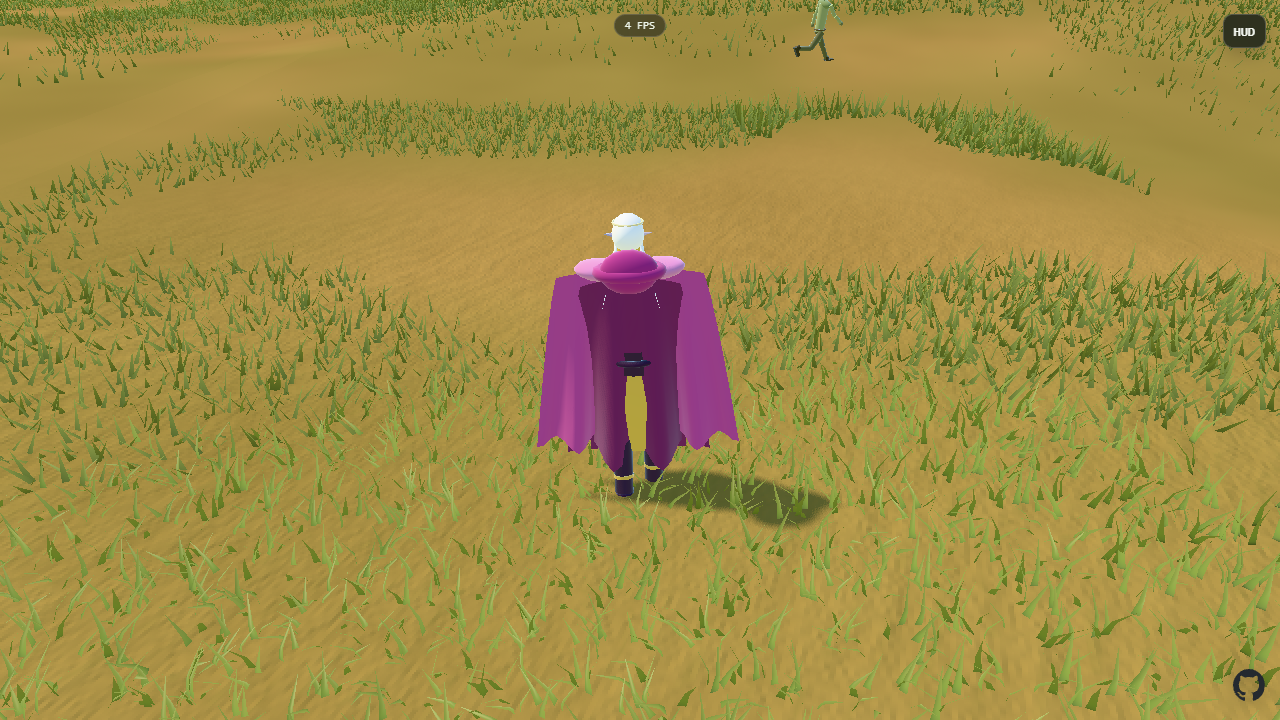
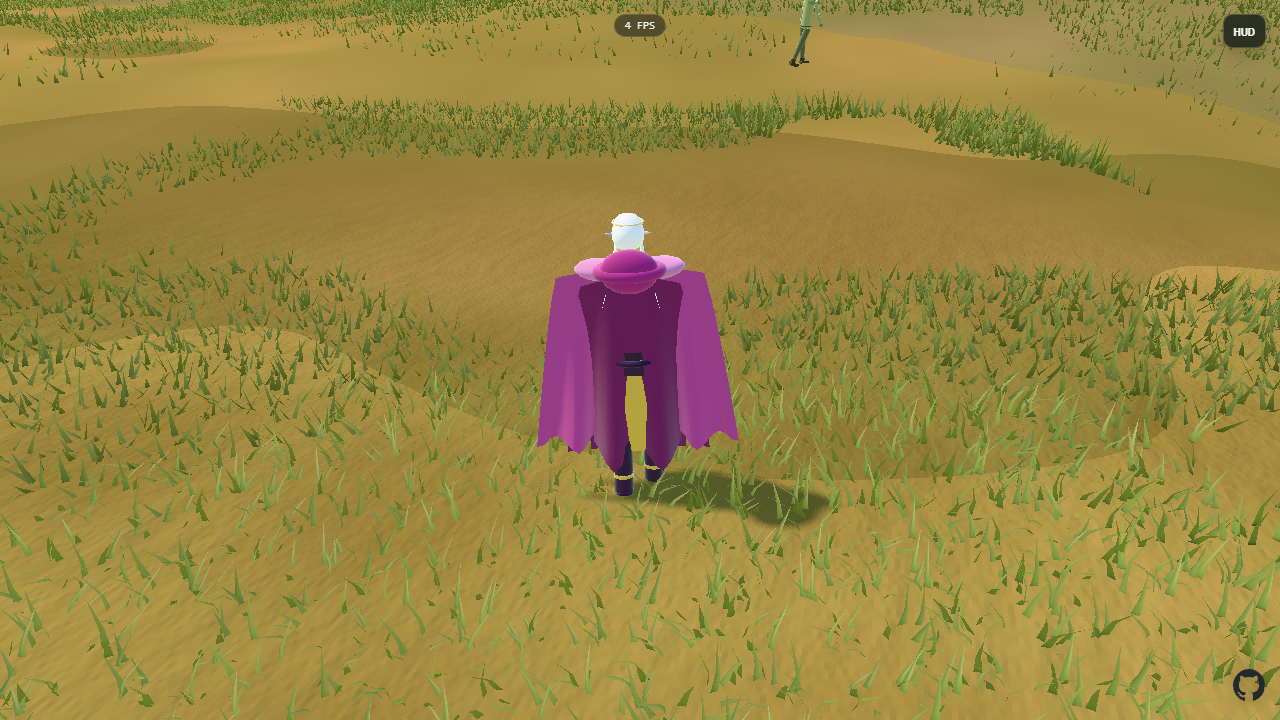
feat(grass): light blades by facing, and sit them in their own shade
Phase 6 of docs/plans/aaa-meadow-organization-plan.md, and the blade half of the
contact the terrain started drawing in Phase 4.

normalUp was one constant at 0.76 in every preset, so more than three quarters
of each blade's normal was world up: a blade facing the sun and a blade facing
away returned nearly the same Lambert response, and the near field had form only
in colour. The same constant flattened grassThinness in the fragment stage,
which is the transmission term -- so the backlighting was implemented correctly,
with into-sun, thinness, view-facing and root attenuation all in place, and then
suppressed by a number set for a different reason.

It interpolates now. A flat normal is right for a card at 200 m that must not
shimmer and wrong for a blade filling forty pixels, so the preset value stays
the *far* end -- it must equal the impostor material's flattening or the
mid-to-far handoff shifts hue under a moving camera -- and grassNearNormalUpScale
brings the near end down. Every near material is handed the same scale in the
same loop as the shared micro fade, for the same reason: a material that missed
it would light its blades on a different schedule from the layer drawing the
blades beside them.

The schedule rides that shared micro fade rather than any LOD distance. Keying
shading to a LOD distance is what produced an earlier brightness ring at 6-7 m,
and the comment recording that is still in the file.
[…]

diff --git a/src/grass/materials/GrassNearMaterial.ts b/src/grass/materials/GrassNearMaterial.ts
@@ -121,7 +121,7 @@ uniform float uGrassGustScale;
 uniform float uGrassGustSpeed;
 uniform float uGrassFlutterStrength;
 uniform float uGrassFlutterSpeed;
-uniform float uGrassNormalUp;
+uniform vec2 uGrassNormalUpRange;
 uniform float uGrassWindLodScale;
 uniform float uGrassDitherSeed;
 uniform vec2 uGrassMicroFadeRange;
@@ -243,6 +243,27 @@ uniform float uGrassDistanceFade;
 // different way. It also leaves `grassWidthAxis` and `grassSide` in scope for
 // the sub-pixel width clamp further down.
 const VERTEX_NORMAL = `
+// The instance root, its camera distance, and the shading micro fade resolve
+// here rather than in the wind chunk below.
+//
+// They have to: this chunk runs in beginnormal_vertex, ahead of begin_vertex,
+// and the normal now depends on distance. Nothing here needs anything the
+// vertex stage does not already hold, and the wind chunk reuses these rather
+// than recomputing them.
+vec4 grassWorldRoot = modelMatrix * vec4(instanceMatrix[3].xyz, 1.0);
+float grassCameraDistance = distance(cameraPosition, grassWorldRoot.xyz);
+// Deliberately NOT derived from this material's own LOD distance. Micro fade
+// drives the troughed normal, the normal flattening, the per-blade tone
+// variation and the flutter — all shading, none of it LOD. Keying it to
+// uGrassNearDistance gave the five near/mid layers five different schedules
+// (3.4 m, 9.4 m, 14.6 m), so the two co-located populations inside the
+// ultra-near band were lit differently and the handoff at 6-7 m read as a
+// brightness ring following the camera.
+float grassMicroFade = 1.0 - smoothstep(
+  uGrassMicroFadeRange.x,
+  uGrassMicroFadeRange.y,
+  grassCameraDistance
+);
 vec3 grassWidthAxis = cross(vec3(0.0, 1.0, 0.0), objectNormal);
 float grassWidthAxisLength = length(grassWidthAxis);
 grassWidthAxis = grassWidthAxisLength > 0.0001
@@ -253,9 +274,32 @@ vec3 grassBladePlaneNormal = normalize(cross(
   grassWidthAxis,
   vec3(0.0, 1.0, 0.0)
 ));
-objectNormal = normalize(mix(objectNormal, vec3(0.0, 1.0, 0.0), uGrassNormalUp));
+/**
+ * How far the blade normal is flattened toward world up — a schedule now,
+ * rather than one constant.
+ *
+ * At the shipped 0.76 more than three quarters of every blade normal was world
+ * up, so a blade facing the sun and a blade facing away returned nearly the
+ * same Lambert response: the near field had no form, only colour. It also
+ * flattened grassThinness in the fragment stage, which is the transmission
+ * term — so the backlighting was implemented correctly and then suppressed by
+ * the same constant.
+ *
+ * The flat normal is right for a card at 200 m that must not shimmer and wrong
+ * for a blade filling forty pixels, so it interpolates between the two. The far
+ * value must stay equal to the impostor material's own flattening, or the
+ * mid-to-far handoff shifts hue under the camera.
+ */
+float grassNormalUpHere = mix(
+  uGrassNormalUpRange.y,
+  uGrassNormalUpRange.x,
+  grassMicroFade
+);
+objectNormal = normalize(
+  mix(objectNormal, vec3(0.0, 1.0, 0.0), grassNormalUpHere)
+);
 grassBladePlaneNormal = normalize(
-  mix(grassBladePlaneNormal, vec3(0.0, 1.0, 0.0), uGrassNormalUp)
+  mix(grassBladePlaneNormal, vec3(0.0, 1.0, 0.0), grassNormalUpHere)
 );
 `;
 
@@ -271,7 +315,6 @@ varying float vGrassGust;
 const VERTEX_WIND = `
 // The instance's translation is its fourth column; multiplying the full matrix
 // by the origin is the same value for eight times the work, per vertex.
-vec4 grassWorldRoot = modelMatrix * vec4(instanceMatrix[3].xyz, 1.0);
 float grassDither = fract(
   grassBladeShade * 0.754877666 +
   grassPhase * 0.569840296 +
@@ -297,18 +340,6 @@ float grassFieldDither = fract(
 // truncation reproduces grassDither exactly and depends on it carrying no
 // per-instance term, so LOD selection and motion have to stay independent.
 float grassMotionPhase = fract(grassPhase + instanceVariation.x);
-float grassCameraDistance = distance(cameraPosition, grassWorldRoot.xyz);
-// Deliberately NOT derived from this material's own LOD distance. Micro fade
-// drives the troughed normal, the per-blade tone variation, and the flutter —
-// all shading, none of it LOD. Keying it to uGrassNearDistance gave the five
-// near/mid layers five different schedules (3.4 m, 9.4 m, 14.6 m), so the two
-// co-located populations inside the ultra-near band were lit differently and
-// the handoff at 6-7 m read as a brightness ring following the camera.
-float grassMicroFade = 1.0 - smoothstep(
-  uGrassMicroFadeRange.x,
-  uGrassMicroFadeRange.y,
-  grassCameraDistance
-);
 mat3 grassInstanceBasis = mat3(instanceMatrix);
 vec3 grassWidthAxisView = normalize(
   normalMatrix * grassInstanceBasis * grassWidthAxis
@@ -959,6 +990,7 @@ export class GrassNearMaterial {
     dryColor: "#a8a06a",
   };
 
+  private nearNormalUpScale = 1;
   private readonly uniforms = {
     uGrassTime: { value: 0 },
     uGrassWindDirection: { value: new THREE.Vector2(0.8, 0.35).normalize() },
@@ -990,7 +1022,15 @@ export class GrassNearMaterial {
     // so it reads the art direction's tip colour rather than spending three
     // more varyings to carry a per-biome one into the fragment stage.
     uGrassTipColor: { value: new THREE.Color(this.colorControls.tipColor) },
-    uGrassNormalUp: { value: 0.45 },
+    /**
+     * (near, far) flattening of the blade normal toward world up.
+     *
+     * The far entry is the authored preset value and must equal the impostor
+     * material's own flattening; the near entry is that scaled down, so a
+     * preset still carries one number and the schedule between them is a
+     * config lever rather than a second art decision.
+     */
+    uGrassNormalUpRange: { value: new THREE.Vector2(0.45, 0.45) },
     uGrassAmbientBoost: { value: 0.12 },
     uGrassBacklightStrength: { value: 0.16 },
     uGrassLodInvert: { value: 0 },
@@ -1164,7 +1204,7 @@ export class GrassNearMaterial {
     this.colorControls.dryColor = material.dryColor;
     this.artRootDarkening = material.rootDarkening;
     this.setPaletteColors();
-    this.uniforms.uGrassNormalUp.value = material.normalUp;
+    this.setNormalUp(material.normalUp);
     this.uniforms.uGrassAmbientBoost.value = material.ambientBoost;
     this.uniforms.uGrassBacklightStrength.value = material.backlightStrength;
     this.uniforms.uGrassWindDirection.value
@@ -1186,7 +1226,7 @@ export class GrassNearMaterial {
     this.artRootDarkening = direction.rootDarkening;
     this.artTipColorStrength = direction.tipColorStrength;
     this.setPaletteColors();
-    this.uniforms.uGrassNormalUp.value = direction.normalUp;
+    this.setNormalUp(direction.normalUp);
     this.uniforms.uGrassAmbientBoost.value = direction.ambientBoost;
     this.uniforms.uGrassBacklightStrength.value = direction.backlightStrength;
     this.uniforms.uGrassArtDensityScale.value = direction.densityScale;
@@ -1233,6 +1273,30 @@ export class GrassNearMaterial {
    */
   getDitherSeed(): number {
     return this.uniforms.uGrassDitherSeed.value;
+  }
+
+  /**
+   * Sets both ends of the flattening schedule from one authored value.
+   *
+   * A preset carries a single `normalUp`, which is the *far* end: the value a
+   * card at range needs to stay stable. The near end is that scaled by
+   * `grassNearNormalUpScale`, so blades close to the camera keep enough of
+   * their real normal to be lit by facing rather than only by colour.
+   */
+  private setNormalUp(farNormalUp: number): void {
+    const range = this.uniforms.uGrassNormalUpRange.value as THREE.Vector2;
+    range.y = farNormalUp;
+    range.x = farNormalUp * this.nearNormalUpScale;
+  }
+
+  /** Configured by the world; 1 restores the old single-value behaviour. */
+  setNearNormalUpScale(scale: number): void {
+    this.nearNormalUpScale = Number.isFinite(scale)
+      ? Math.min(1, Math.max(0, scale))
+      : 1;
+    this.setNormalUp(
+      (this.uniforms.uGrassNormalUpRange.value as THREE.Vector2).y,
+    );
   }
 
   /** Threshold-LOD materials only; ignored when coverage is resolved per blade. */
@@ -1483,11 +1547,20 @@ export class GrassNearMaterial {
         }
       });
     folder
-      .add(this.uniforms.uGrassNormalUp, "value", 0, 0.9, 0.01)
-      .name("Normal Up")
+      .add(
+        this.uniforms.uGrassNormalUpRange.value as THREE.Vector2,
+        "y",
+        0,
+        0.9,
+        0.01,
+      )
+      .name("Normal Up (far)")
       .onChange((value: number) => {
         for (const material of linkedMaterials) {
-          material.uniforms.uGrassNormalUp.value = value;
+          const range = material.uniforms.uGrassNormalUpRange
+            .value as THREE.Vector2;
+          range.y = value;
+          range.x = value * this.nearNormalUpScale;
         }
       });
     folder

diff --git a/src/world/grass/WorldSingleBladeTileFactory.ts b/src/world/grass/WorldSingleBladeTileFactory.ts
@@ -787,8 +787,30 @@ export class WorldSingleBladeTileFactory {
       job.variations[variationOffset] = job.random.next();
       job.variations[variationOffset + 1] =
         job.random.range(0.84, 1.16) * biomeProfile.windDamping;
+      /**
+       * Whole-blade occlusion, in three parts.
+       *
+       * The field term says how shaded this patch of meadow is. The other two
+       * say where in its own tuft this blade stands, which the field term
+       * cannot: a blade shorter than the tuft's main tier is under the others,
+       * and a blade near the crown is more enclosed than one on the rim.
+       *
+       * Both are build-time and cost nothing at runtime — the clump profile
+       * already knows its own tier height, so no neighbour search is needed.
+       * This is the blade half of the contact the terrain now draws under each
+       * tuft; the two are meant to be read together.
+       */
+      const clumpTopHeight =
+        this.clusterProfile.heightScale * this.worldConfig.grassMainHeightScale;
+      const canopyDepth = THREE.MathUtils.clamp(
+        (clumpTopHeight - verticalScale) / Math.max(clumpTopHeight, 1e-3),
+        0,
+        1,
+      );
       job.variations[variationOffset + 2] =
         resolveGrassCanopyAo(vigor, suitability) *
+        (1 - this.worldConfig.grassCanopyDepthAo * canopyDepth) *
+        (1 - this.worldConfig.grassClumpCoreAo * (1 - sampleRadius)) *
         job.random.range(0.992, 1.008);
       let dryness =
         this.habitatSample.dryness * this.clusterProfile.drynessScale +

diff --git a/src/world/WorldConfig.ts b/src/world/WorldConfig.ts
@@ -240,6 +240,19 @@ export interface WorldConfig {
   /** Dark pool under each tuft, and the litter that gathers around it. */
   terrainClumpContactAo: number;
   terrainClumpLitterStrength: number;
+  /**
+   * Blade lighting.
+   *
+   * normalUp was one constant at 0.76, so three quarters of every blade normal
+   * was world up and a blade facing the sun returned nearly the same response
+   * as one facing away. This scales the near end of that schedule down; the
+   * preset still carries the far value a distant card needs.
+   */
+  grassNearNormalUpScale: number;
+  /** How much darker a blade sitting under its neighbours is. */
+  grassCanopyDepthAo: number;
+  /** How much darker a blade near the centre of its own tuft is. */
+  grassClumpCoreAo: number;
   /** World metres covered by one repeat of the generated surface-noise map. */
   terrainGroundNoiseWorldSize: number;
   terrainGroundMesoStrength: number;

diff --git a/src/world/WorldConfigSchema.ts b/src/world/WorldConfigSchema.ts
@@ -274,6 +274,9 @@ export const WORLD_CONFIG_SCHEMA: WorldConfigSchema = {
   terrainMossStrength: { minimum: 0, maximum: 0.7 },
   terrainClumpContactAo: { minimum: 0, maximum: 0.45 },
   terrainClumpLitterStrength: { minimum: 0, maximum: 0.4 },
+  grassNearNormalUpScale: { minimum: 0.4, maximum: 1 },
+  grassCanopyDepthAo: { minimum: 0, maximum: 0.5 },
+  grassClumpCoreAo: { minimum: 0, maximum: 0.3 },
   terrainGroundNoiseWorldSize: { minimum: 16, maximum: 256 },
   terrainGroundMesoStrength: { minimum: 0, maximum: 0.5 },
   terrainGroundMicroStrength: { minimum: 0, maximum: 0.35 },

diff --git a/src/world/grass/WorldNearGrassField.ts b/src/world/grass/WorldNearGrassField.ts
@@ -939,6 +939,7 @@ function createNearGrassResources(
     // One shading schedule for every layer. Passing each material its own LOD
     // distance here is what produced the 6-7 m brightness ring.
     for (const material of created) {
+      material.setNearNormalUpScale(worldConfig.grassNearNormalUpScale);
       material.setMicroDetailFadeRange(
         worldConfig.grassMicroDetailFadeStart,
         worldConfig.grassMicroDetailFadeEnd,
